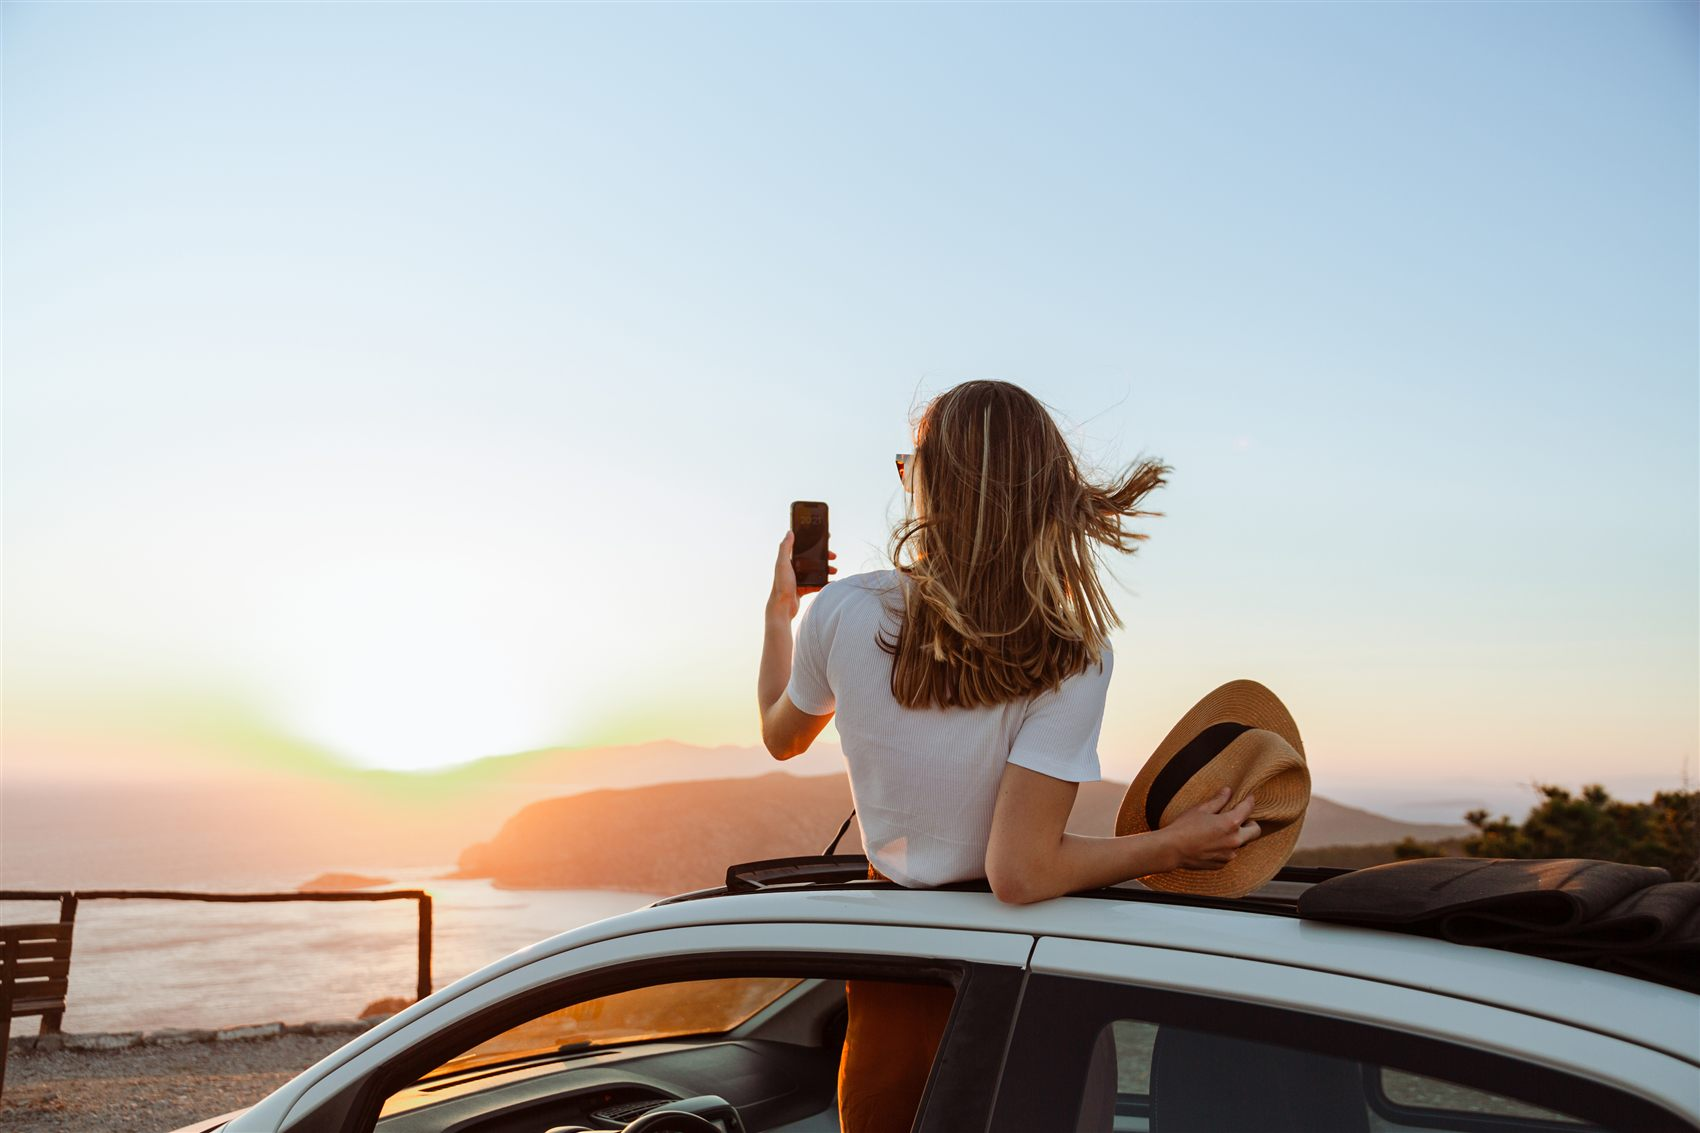
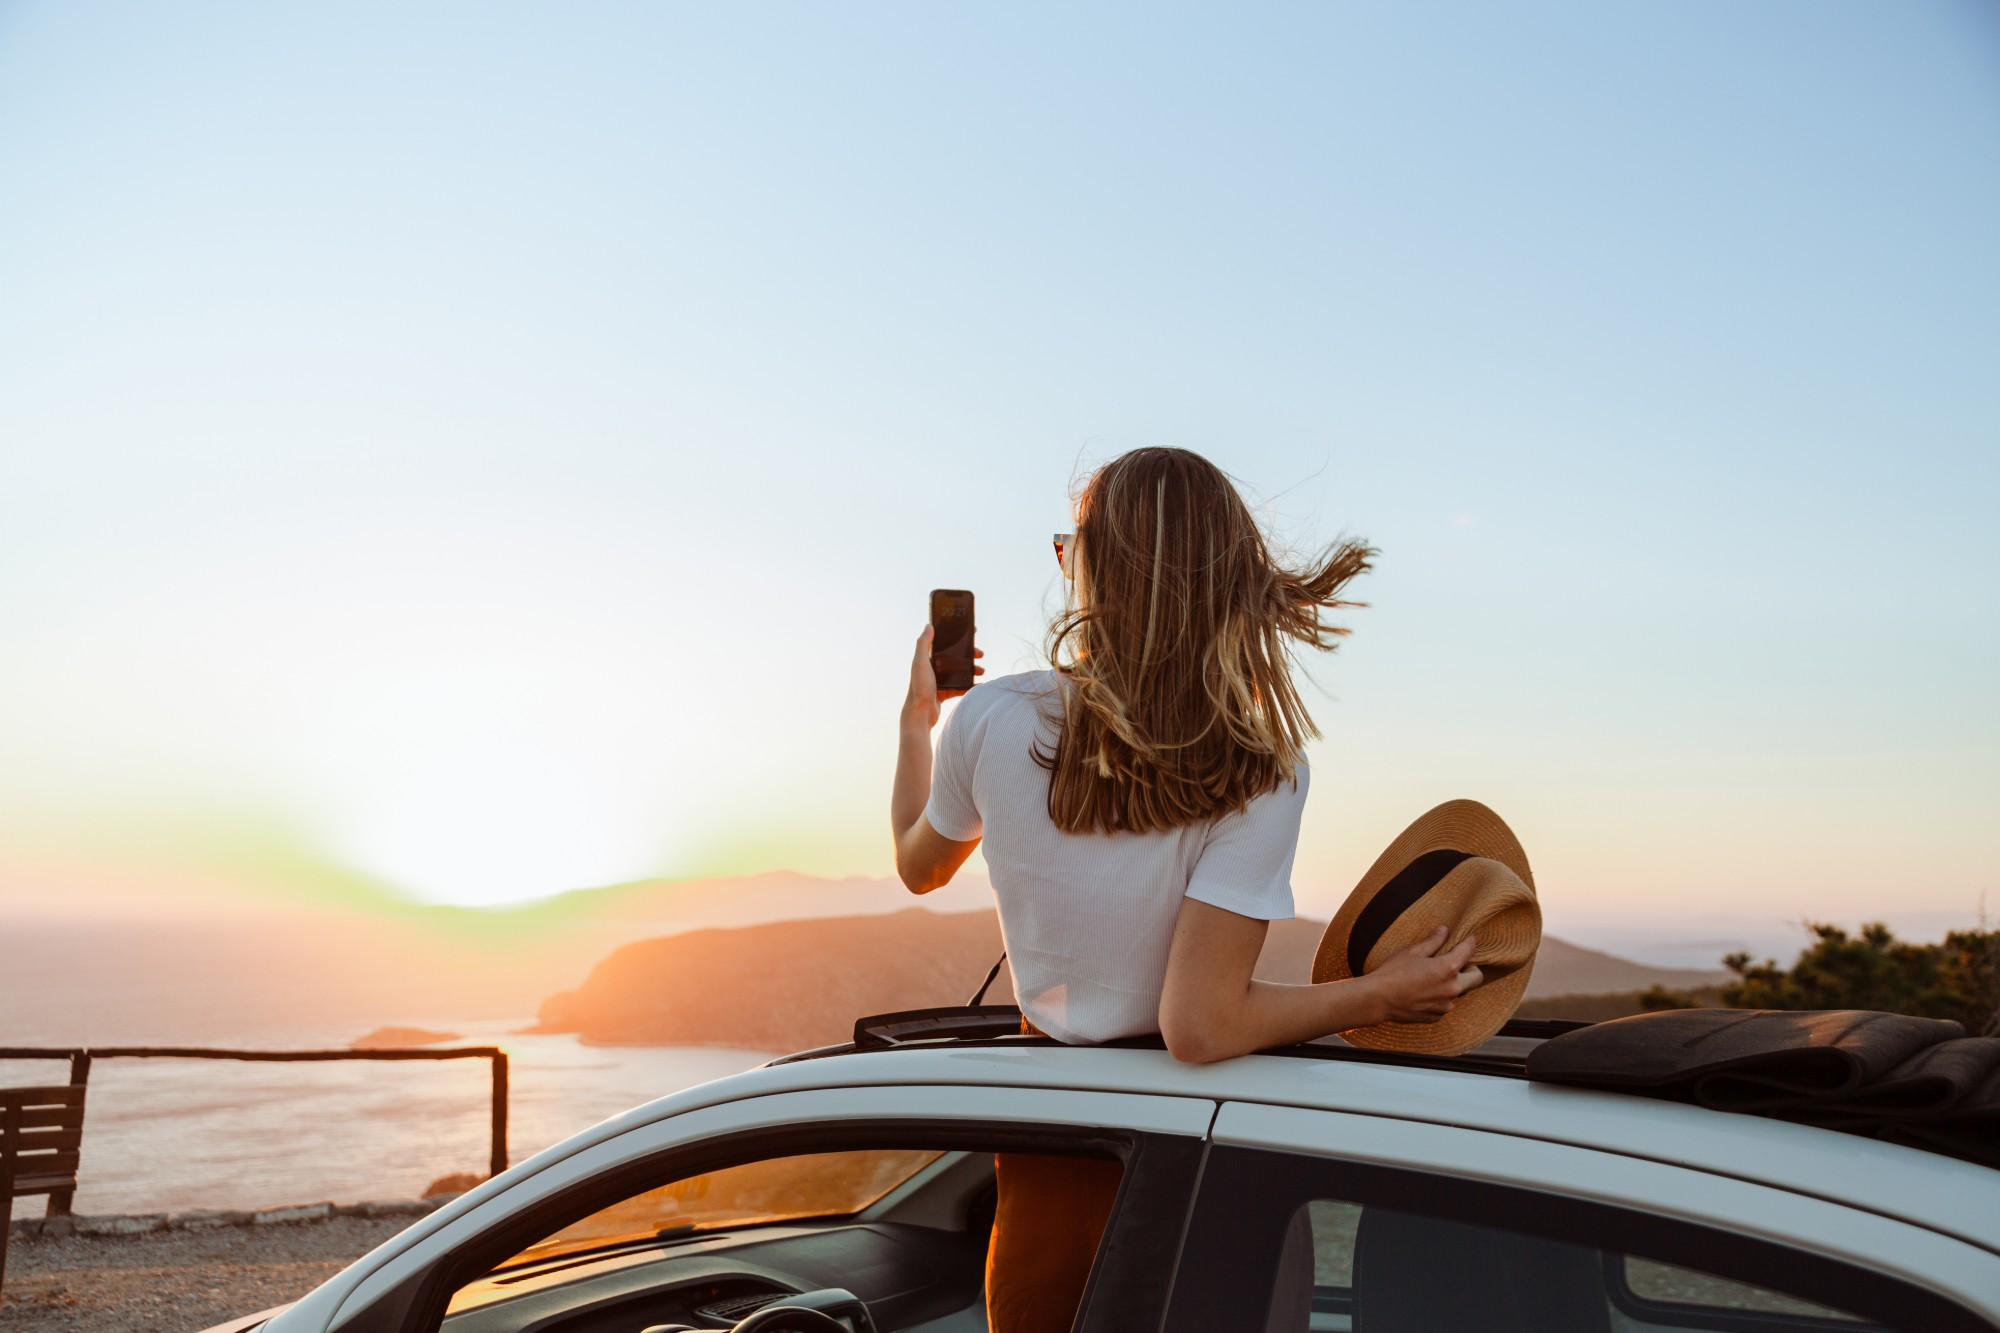
Pricing page: clean header photo with the Kaia chat animation (preview)
The header now uses the clean photo with the animated Kaia chat laid over
it (as an animated WebP, 320 KB, converted from the 6.2 MB GIF), placed
as in the desktop, tablet and phone frames. People who prefer reduced
motion see the finished conversation as a still. Drops the old photo
with the overlay baked in.

diff --git a/pricing/styles.css b/pricing/styles.css
@@ -92,8 +92,11 @@ main { display: flex; flex-direction: column; padding-top: 66px; } /* nav frame 
 .intro__text { width: 678px; font-size: 15px; }
 
 /* ---------- Header image ---------- */
-/* Scales evenly (no cropping) so the "Test drive booking" label baked into the photo keeps its margin */
-.hero picture img { width: 100%; height: auto; aspect-ratio: 1458 / 586; border-radius: 30px; }
+/* Photo cropped as in the design (shifted up so her head and the car fill the frame), with the
+   Kaia chat animation over its top-left corner, sized and placed in proportion to the photo */
+.hero__media { position: relative; }
+.hero__photo { display: block; width: 100%; height: auto; aspect-ratio: 1458 / 586; object-fit: cover; object-position: 50% 74%; border-radius: 30px; }
+.hero__chat { position: absolute; left: 2.88%; top: 4.61%; width: 33.88%; height: auto; pointer-events: none; }
 
 /* ---------- Section heads ---------- */
 .section-head { display: flex; flex-direction: column; align-items: center; gap: 20px; text-align: center; }
@@ -389,7 +392,6 @@ html.menu-open { overflow: hidden; }
 }
 
 /* ---------- Pieces that only appear on tablets and phones ---------- */
-.hero picture { display: block; }
 .hero__form, .contact__bubbles, .supported, .dealer__arrows, .footer__mark { display: none; }
 .includes__toggle { display: inline-flex; align-items: center; justify-content: space-between; gap: 8px; width: 100%; font: inherit; text-align: left; cursor: default; }
 .includes__toggle img { display: none; width: 44px; height: 44px; flex: none; }
@@ -419,7 +421,8 @@ html.menu-open { overflow: hidden; }
 
   .intro__title { font-size: 30px; line-height: 40px; }
   .intro__text { width: auto; max-width: 600px; }
-  .hero picture img { aspect-ratio: auto; height: 586px; object-fit: cover; }
+  .hero__photo { aspect-ratio: auto; height: 586px; object-position: 50% 50%; }
+  .hero__chat { left: 28px; top: 33px; width: 404px; }
   .section-title { font-size: 30px; line-height: 40px; }
   .section-title br, .section-sub br { display: none; }
   .section-head { padding-inline: 10px; }
@@ -500,7 +503,8 @@ html.menu-open { overflow: hidden; }
   /* The page opens straight on the photo with the sign-up card over it (6490:5578) */
   .page-label, .intro { display: none; }
   .hero { margin-top: 0; width: 100vw; margin-inline: calc(50% - 50vw); }
-  .hero picture img { height: 353px; border-radius: 30px 30px 0 0; }
+  .hero__photo { height: 353px; object-position: 36% 50%; border-radius: 30px 30px 0 0; }
+  .hero__chat { left: 20px; top: 15px; width: 190px; }
   .hero__form {
     position: relative; display: flex; flex-direction: column; gap: 15px;
     left: auto; top: auto; width: 100%; max-width: none;

diff --git a/pricing/index.html b/pricing/index.html
@@ -109,10 +109,11 @@
 
     <!-- Header image (6246:13591) -->
     <div class="hero">
-      <picture>
-        <source media="(max-width: 1179px)" srcset="assets/header-photo.jpg" />
-        <img src="assets/header.jpg" width="1458" height="586" alt="Woman sitting on an open-top car at sunset, taking a photo with her phone. Overlay: Test drive booking, See Kaia on your inventory." />
-      </picture>
+      <div class="hero__media">
+        <img class="hero__photo" src="assets/header-photo.jpg" width="2000" height="1333" alt="Woman standing up through a car's sunroof at sunset, taking a photo of the view with her phone." />
+        <!-- Kaia chat playing over the photo (Figma layer "kaia-chat-transparent@2x"), 11.5 s loop -->
+        <img class="hero__chat" src="assets/header-chat.webp" width="556" height="480" alt="Kaia chat: a shopper asks for an SUV under $28k, Kaia suggests the 2023 CR-V at $27,900, and a test drive is booked for Thursday at 2:30 PM." data-hero-chat />
+      </div>
       <!-- Phones only: the sign-up card sits over the photo -->
       <form class="lead-card hero__form" data-contact novalidate>
         <h2 class="lead-card__title">Finding your next car starts with a conversation.</h2>

diff --git a/pricing/script.js b/pricing/script.js
@@ -152,6 +152,12 @@
     next.focus();
   });
 
+  /* ---------- Header chat animation: people who prefer less motion see the finished conversation ---------- */
+  const heroChat = document.querySelector("[data-hero-chat]");
+  const syncHeroChat = () => { heroChat.src = reduceMotion.matches ? "assets/header-chat-still.webp" : "assets/header-chat.webp"; };
+  reduceMotion.addEventListener("change", syncHeroChat);
+  if (reduceMotion.matches) syncHeroChat();
+
   /* ---------- Add-on lead board video: hold on the still frame for people who prefer less motion ---------- */
   const board = document.querySelector("[data-leadboard]");
   const syncBoard = () => { if (reduceMotion.matches) { board.pause(); board.currentTime = 0; } else board.play().catch(() => {}); };
